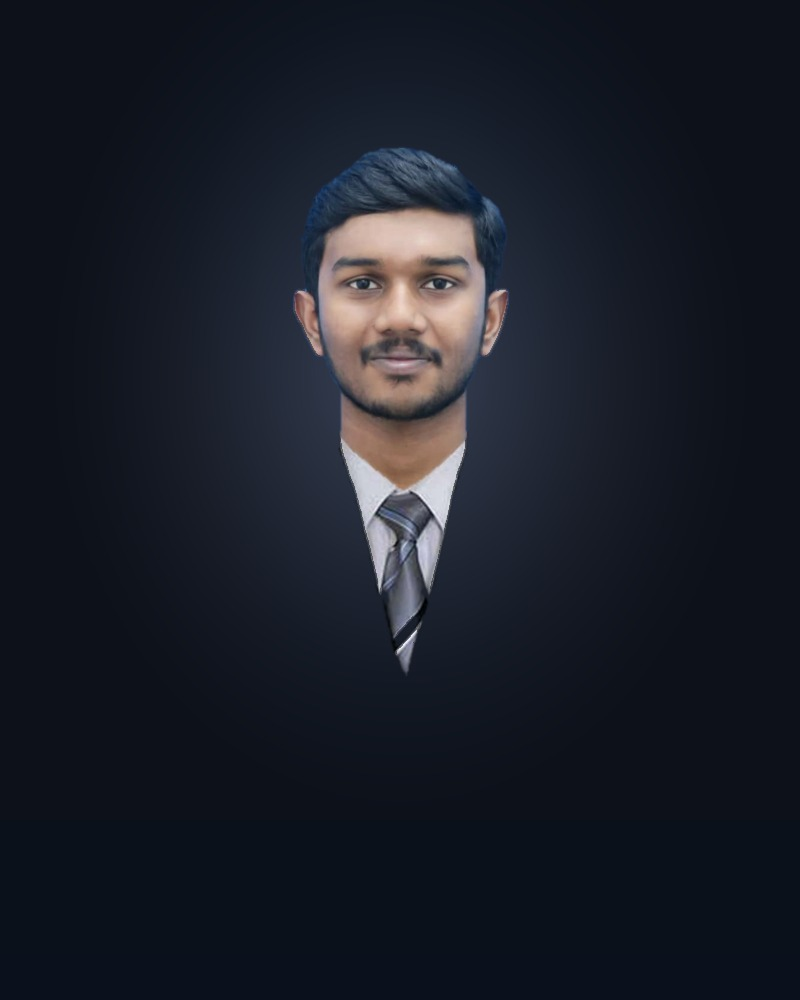
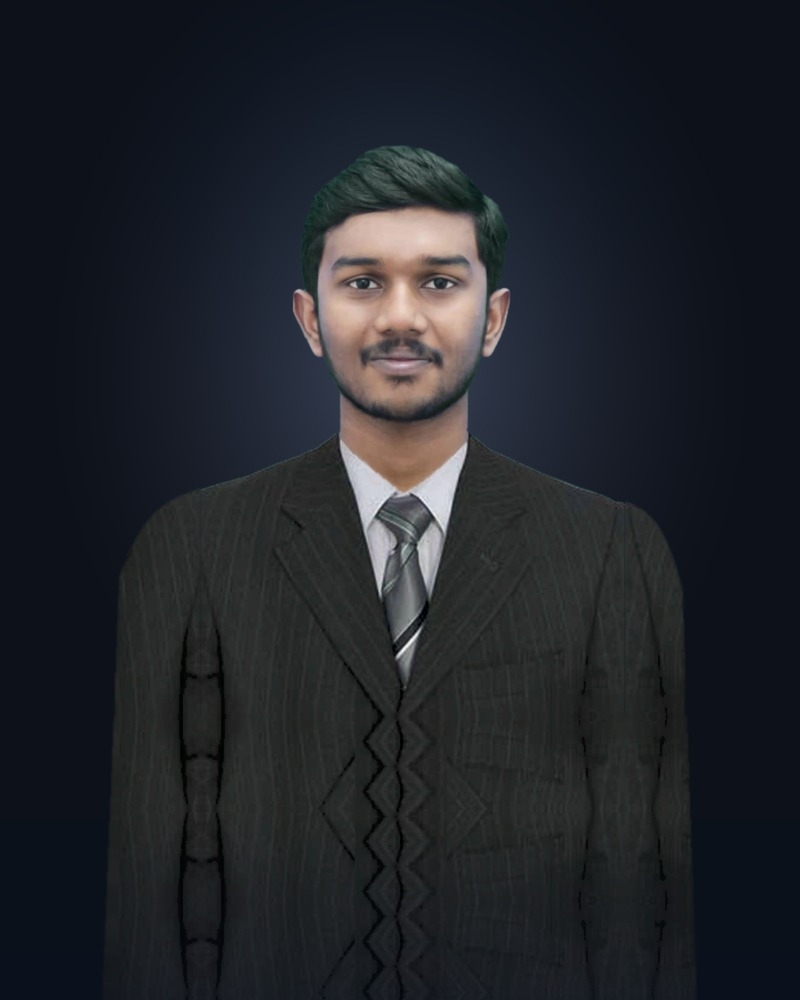
auto-sync: kemas kini tydp2.jpg, process_mt_photos.py

diff --git a/process_mt_photos.py b/process_mt_photos.py
@@ -531,13 +531,19 @@ def grabcut_with_priors(bgr: np.ndarray, valid_mask: np.ndarray, face_box, borde
     return defringed.astype(np.uint8), alpha
 
 
-def harmonize_lighting(bgr: np.ndarray, face_box, boost_exposure: bool = False):
+def harmonize_lighting(bgr: np.ndarray, face_box, boost_exposure: bool = False, boost_suit: bool = False):
     cx, cy, fw, fh = face_box
     yy, xx = np.mgrid[0:OUT_H, 0:OUT_W]
     face_sample = (((xx - cx) / (fw * 0.28)) ** 2 + ((yy - cy) / (fh * 0.35)) ** 2) <= 1.0
 
     lab = cv2.cvtColor(bgr, cv2.COLOR_BGR2LAB).astype(np.float32)
     face_L = float(np.median(lab[:, :, 0][face_sample]))
+
+    if boost_suit:
+        # Lift dark charcoal suit/blazer tones cleanly off the obsidian backdrop while preserving pinstripes
+        suit_band = (yy > cy + fh * 0.55) & (lab[:, :, 0] >= 12.0) & (lab[:, :, 0] <= 75.0)
+        suit_lift = 14.0 * np.clip(1.0 - (lab[:, :, 0] - 42.0) / 36.0, 0.0, 1.0)
+        lab[:, :, 0] = np.where(suit_band, np.clip(lab[:, :, 0] + suit_lift, 0, 255), lab[:, :, 0])
 
     if boost_exposure or face_L < 142.0:
         # Lift midtones & skin brightness while keeping dark charcoal suit crisp black
@@ -585,6 +591,9 @@ def process_one(leader_id: str, mode: str, backdrop: np.ndarray):
     if mode == 'green':
         fg, alpha = segment_green_screen(aligned, valid_mask, adj_face)
         fg = harmonize_lighting(fg, adj_face, boost_exposure=True)
+    elif mode == 'blue':
+        fg, alpha = segment_blue_screen(aligned, valid_mask, adj_face)
+        fg = harmonize_lighting(fg, adj_face, boost_exposure=False, boost_suit=True)
     elif mode == 'white_wall':
         border_bg = build_border_flood_bg(aligned, valid_mask, thresh=13.0)
         fg, alpha = grabcut_with_priors(aligned, valid_mask, adj_face, border_bg=border_bg, is_outdoor=False, is_white_wall=True)
@@ -610,6 +619,7 @@ def process_one(leader_id: str, mode: str, backdrop: np.ndarray):
 DEFAULT_MODES = {
     'presiden': 'studio_hall',
     'tydp1': 'green',
+    'tydp2': 'blue',
     'bendahari': 'white_wall',
     'su-komunikasi': 'studio_neutral',
     'suag': 'outdoor',
